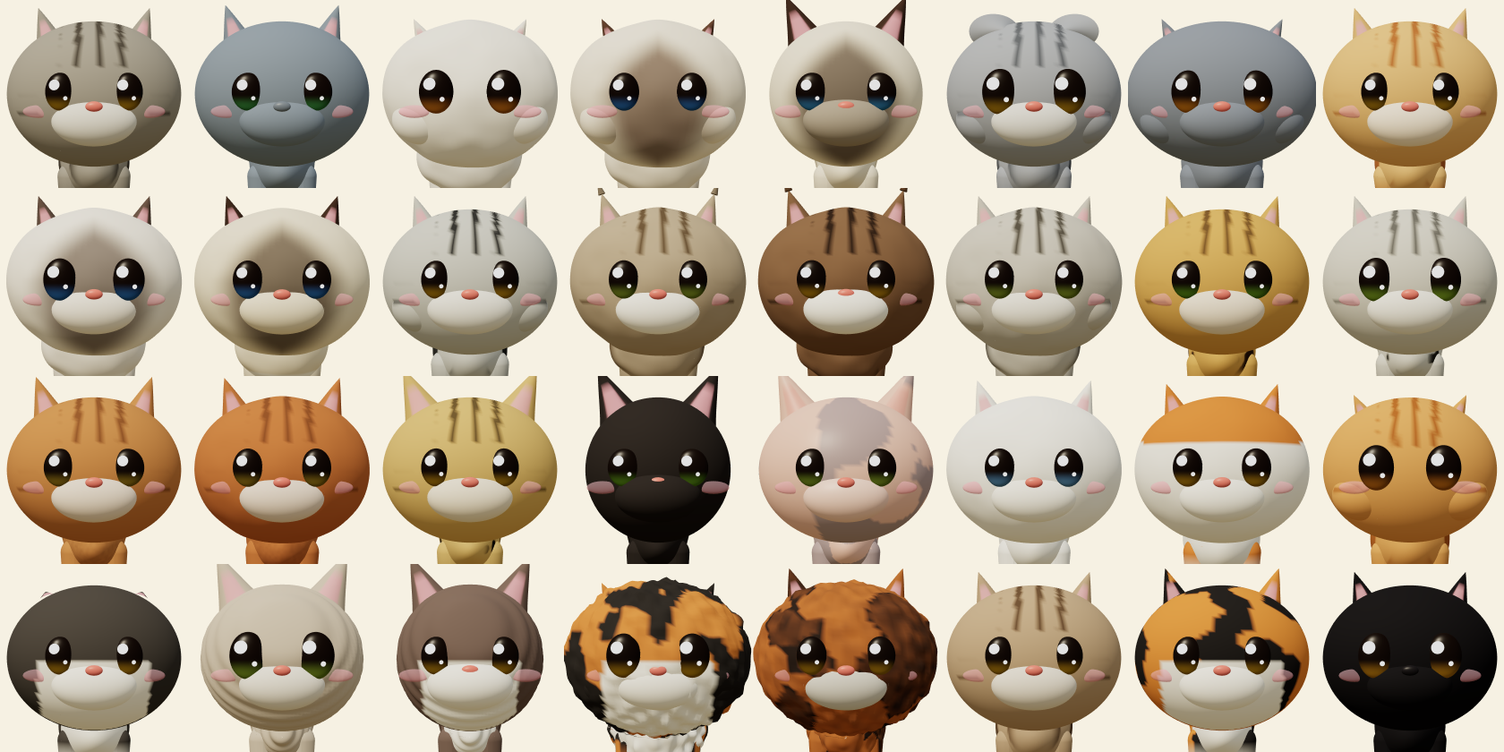
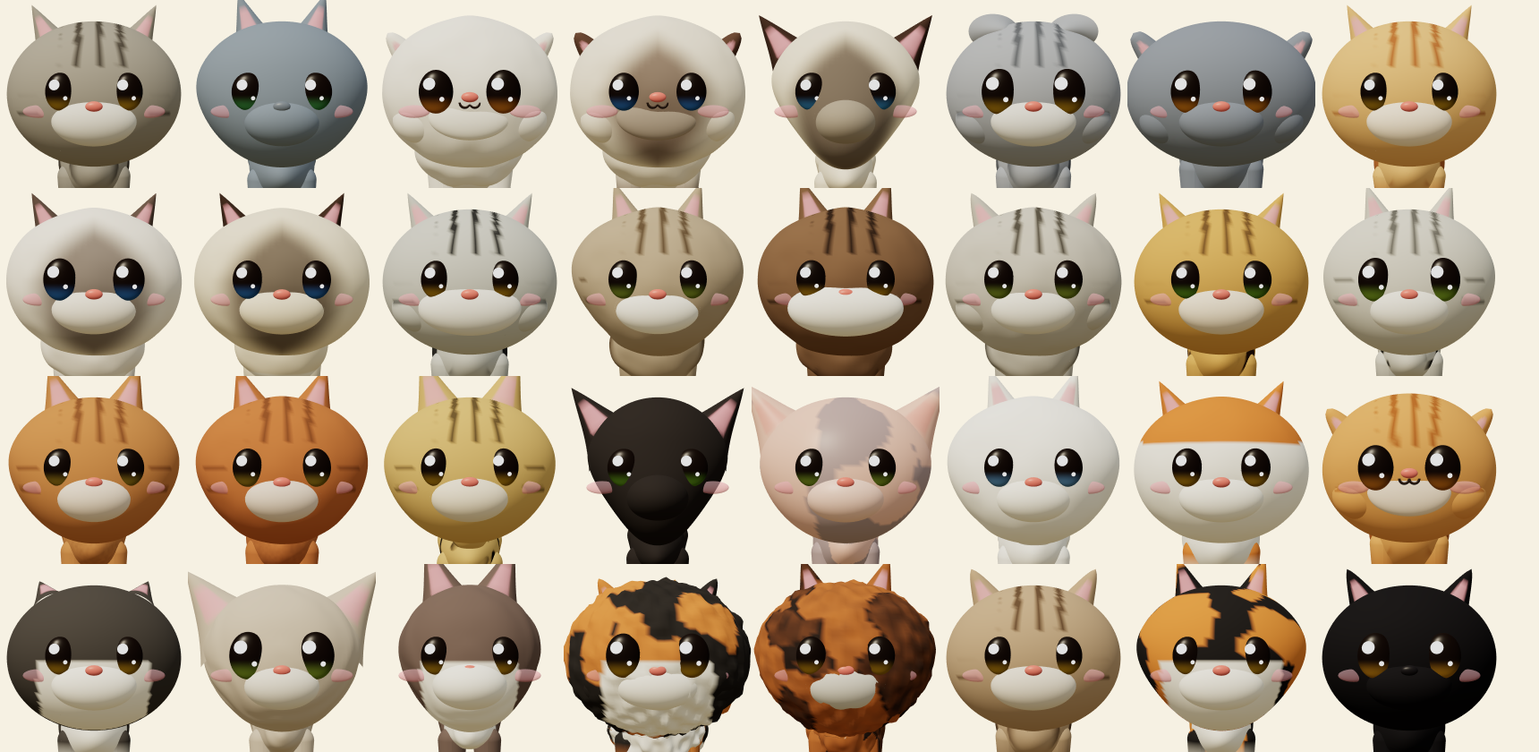
Cat catalog: breed silhouettes (head shape, ear set, body lines, neck, tail)
Add silhouette parameters (wedge, headTri, muzzleW, earSet/earWide/earRound,
chest, backArch, tuck, potBelly, pouch, rumpHigh, neckLen, tailThick) and map
them onto the 32 breed presets so breeds read by shape alone. Add a black
silhouette test page, soften rex coat waves, keep flat-face cheeks/muzzle
flush, frame tall breeds in the catalog, and re-render the doc images.

Claude-Session: https://claude.ai/code/session_015vjHDFNeuhZBMk9pB9WgeS

diff --git a/cat-island/prototype/3d/catgen.js b/cat-island/prototype/3d/catgen.js
@@ -142,7 +142,7 @@ function furify(geo, fur, k = 0) {
     let off = 0;
     if (fur.type === 'long') off = fur.amount * .06 * (fbm(v.x * 3.5 + k, v.y * 3.5, v.z * 3.5) - .3);
     else if (fur.type === 'curly') off = fur.amount * (.035 + .05 * Math.pow(vnoise(v.x * 16 + k, v.y * 16, v.z * 16), 2) + .02 * Math.sin(v.x * 40) * Math.sin(v.z * 40));
-    else if (fur.type === 'rex') off = fur.amount * .012 * Math.sin(v.z * 46 + v.y * 20);
+    else if (fur.type === 'rex') off = fur.amount * .008 * Math.sin(v.z * 30 + v.y * 14 + 6 * vnoise(v.x * 5 + k, v.y * 5, v.z * 5)) * (.4 + .6 * vnoise(v.x * 9, v.y * 9 + k, v.z * 9));   // soft broken waves, not rings
     v.addScaledVector(n, off);
     pos.setXYZ(i, v.x, v.y, v.z);
   }
@@ -177,8 +177,22 @@ export const SHAPE_DEFAULT = {
   eyeSize: 1, eyeShape: 'round',
   bodyLen: 1, bodyBulk: 1, legLen: 1, legBulk: 1,
   fur: 'short', furAmount: 1, ruff: 0,
-  tail: 'normal', tailLen: 1, tailFluff: 0,
+  tail: 'normal', tailLen: 1, tailFluff: 0, tailThick: 1,
   wrinkles: 0,
+  // silhouette shaping
+  wedge: 0,          // 0 round ... 1 Siamese/Oriental wedge (narrow chin, long muzzle)
+  headTri: 0,        // triangular head with straight profile (Norwegian, Japanese Bobtail)
+  muzzleW: 1,        // square, broad muzzle (Maine Coon, American Shorthair)
+  earSet: 'mid',     // 'high' (on top) | 'mid' | 'low' (wide, on the sides: Devon, Siamese, Persian)
+  earWide: 1,        // base width of the ear
+  earRound: 0,       // 0 pointed ... 1 rounded tips (British, Persian)
+  chest: 1,          // chest depth
+  backArch: 0,       // arched back (Cornish Rex)
+  tuck: 0,           // tucked-up belly (Cornish Rex, Oriental)
+  potBelly: 0,       // round belly (Sphynx)
+  pouch: 0,          // primordial pouch under the rear belly (Egyptian Mau, Bengal)
+  rumpHigh: 0,       // hind legs longer than front: rump sits higher (Manx, Egyptian Mau)
+  neckLen: 1,        // neck length (Savannah, Siamese long / Persian short)
 };
 
 // ------------------------------------------------------------------ build
@@ -194,11 +208,14 @@ export function buildCat(shapeIn, coatSpec) {
   const rig = { root, legs: {}, tail: [] };
 
   // leg geometry sizes
-  const fUp = .3 * L, fLo = .3 * L, hTh = .3 * L, hSh = .26 * L, hHo = .2 * L, pawR = .09 * s.legBulk;
+  const RH = 1 + s.rumpHigh;
+  const fUp = .3 * L, fLo = .3 * L, hTh = .3 * L * RH, hSh = .26 * L * RH, hHo = .2 * L * RH, pawR = .09 * s.legBulk;
   const shoulderY = fUp + fLo + pawR * .9;
-  const bodyY = shoulderY + .06;
+  const hindExtra = (hTh + hSh + hHo) * (1 - 1 / RH) * .8;
+  const bodyY = shoulderY + .06 + hindExtra / 2;
 
   const body = new THREE.Group(); body.position.y = bodyY; root.add(body); rig.body = body;
+  rig.pitch = Math.atan2(hindExtra, .96 * BL);           // rump-high breeds lean forward
   const fluffy = s.fur === 'long' ? 1.08 : s.fur === 'curly' ? 1.05 : 1;
   const bodyNorm = p => ({ nx: p.x / (.32 * B), ny: (p.y - bodyY) / (.34 * B), nz: p.z / (.9 * BL) });
 
@@ -207,11 +224,17 @@ export function buildCat(shapeIn, coatSpec) {
     const g = new THREE.SphereGeometry(1, 120, 80);
     g.rotateX(Math.PI / 2);                         // poles on the z axis (tail <-> chest)
     const pos = g.attributes.position;
-    const prof = t => .305 + .055 * Math.exp(-(((t - .45) / .32) ** 2)) + .035 * Math.exp(-(((t + .5) / .3) ** 2));
+    const prof = t => .305 + .055 * s.chest * Math.exp(-(((t - .45) / .32) ** 2)) + .035 * Math.exp(-(((t + .5) / .3) ** 2));
     for (let i = 0; i < pos.count; i++) {
       const x = pos.getX(i), y = pos.getY(i), z = pos.getZ(i);
-      const r = prof(z) * B * fluffy;
-      pos.setXYZ(i, x * r * .93, y * r + .03 - .025 * Math.max(0, z), z * .9 * BL);
+      const r = prof(z) * B * fluffy, mid = 1 - z * z, under = Math.max(0, -y), over = Math.max(0, y);
+      let yy = y * r + .03 - .025 * Math.max(0, z);
+      yy += s.backArch * .1 * mid * over;                                       // arched spine
+      yy += s.tuck * .13 * mid * under;                                          // tucked-up waist
+      yy -= s.potBelly * .1 * mid * under;                                       // round belly
+      yy -= s.pouch * .08 * Math.exp(-(((z + .42) / .24) ** 2)) * under;         // primordial pouch
+      const xx = x * r * .93 * (1 + s.potBelly * .14 * mid * under);
+      pos.setXYZ(i, xx, yy, z * .9 * BL);
     }
     g.computeVertexNormals();
     if (!hairless) furify(g, fur, 1);
@@ -262,7 +285,7 @@ export function buildCat(shapeIn, coatSpec) {
     for (let i = 0; i < tailN; i++) {
       const j = new THREE.Group(); parent.add(j);
       const rad = k => (plume > 1 ? .068 * plume * (1 - .22 * k) * (k > .85 ? Math.sqrt(Math.max(.15, 1 - ((k - .85) / .2) ** 2)) : 1) : .068 - .026 * k) * (s.fur === 'curly' ? 1.2 : 1);
-      const r0 = rad(i / tailN), r1 = rad((i + 1) / tailN);
+      const r0 = rad(i / tailN) * s.tailThick, r1 = rad((i + 1) / tailN) * s.tailThick;
       const g = capsuleY(r0, r1, segLen, 24);
       g.rotateX(Math.PI);                    // grow backwards/upwards along +y of the joint
       if (s.fur === 'curly') furify(g, { type: 'curly', amount: 1 }, 0);
@@ -279,18 +302,35 @@ export function buildCat(shapeIn, coatSpec) {
   // neck + head
   const neck = new THREE.Group(); neck.position.set(0, .2, .62 * BL); body.add(neck); rig.neck = neck;
   {
-    const g = ellipsoid(1, .25 * B * fluffy, .27 * B * fluffy, .28, 64); g.translate(0, .1, .06);
+    const g = ellipsoid(1, .25 * B * fluffy * (1 - (s.neckLen - 1) * .3), .27 * B * fluffy * s.neckLen, .28, 64); g.translate(0, .1 * s.neckLen, .06);
     if (!hairless) furify(g, fur, 5);
     neck.add(mk(g, 'body', 'bodyNorm', bodyMat));
   }
-  const head = new THREE.Group(); head.position.set(0, .26 * s.headSize, .16 * s.headSize); neck.add(head); rig.head = head;
+  const head = new THREE.Group(); head.position.set(0, .26 * s.headSize + (s.neckLen - 1) * .3, .16 * s.headSize + (s.neckLen - 1) * .12); neck.add(head); rig.head = head;
   const HS = .42 * s.headSize;
   {
     const g = ellipsoid(HS, s.headW, .9, .92 - s.faceFlat * .1, 96);
+    {
+      const pos = g.attributes.position;
+      for (let i = 0; i < pos.count; i++) {
+        let x = pos.getX(i), y = pos.getY(i), z = pos.getZ(i);
+        const ny = y / (HS * .9), nz = z / (HS * .92);
+        const low = sstep(.35, -.9, ny), front = sstep(-.2, .9, nz);
+        // wedge: narrow towards the chin, longer muzzle (Siamese / Oriental)
+        x *= 1 - s.wedge * .36 * low - s.headTri * .22 * low;
+        z += HS * front * low * (s.wedge * .22 + s.headTri * .08);
+        y -= HS * front * low * s.wedge * .08;
+        // flat face: lower front pushed in, domed forehead (Persian / Exotic)
+        z -= HS * s.faceFlat * .07 * sstep(.4, 1, nz) * sstep(.5, -.5, ny);
+        y += HS * s.faceFlat * .05 * sstep(.2, 1, ny);
+        pos.setXYZ(i, x, y, z);
+      }
+      g.computeVertexNormals();
+    }
     if (!hairless) furify(g, { ...fur, amount: fur.amount * .7 }, 11);
     head.add(mk(g, 'head', 'headDir', bodyMat));
     if (s.cheek) for (const x of [-1, 1]) {
-      const c = ellipsoid(HS * .38, 1, .8, .85, 48); c.translate(x * HS * .5 * s.headW, -HS * .3, HS * .36);
+      const c = ellipsoid(HS * .38, 1, .8, .85, 48); c.translate(x * HS * .5 * s.headW, -HS * .3, HS * (.36 - .06 * s.faceFlat));   // cheeks follow the flattened face
       head.add(mk(c, 'head', 'headDir', bodyMat));
     }
   }
@@ -298,22 +338,25 @@ export function buildCat(shapeIn, coatSpec) {
   for (const x of [-1, 1]) {
     const es = Math.pow(s.earSize, .65) * HS / .42 * .82 * (s.ear === 'large' ? 1.15 : 1);
     // one cone per ear (base sunk into the skull); the pink inner ear is painted on its front face
-    const eh = .36 * es, er0 = .16 * es;
+    const eh = .36 * es, er0 = .16 * es * s.earWide;
     // lathe cone (ConeGeometry with heightSegments > 1 flips half of its triangles in three r169)
     const prof = [];
-    for (let k = 0; k <= 14; k++) { const t = k / 14; prof.push(new THREE.Vector2(Math.max(1e-4, er0 * (1 - t) * (1 - .12 * Math.sin(Math.PI * t))), -eh / 2 + eh * t)); }
+    for (let k = 0; k <= 14; k++) { const t = k / 14; prof.push(new THREE.Vector2(Math.max(1e-4, er0 * Math.pow(1 - t, 1 - .6 * s.earRound) * (1 - .12 * Math.sin(Math.PI * t))), -eh / 2 + eh * t)); }
     const eg = new THREE.LatheGeometry(prof, 40); eg.translate(0, .08 * es, 0);
     const ear = new THREE.Group();
     const earMesh = mk(eg, 'ear', { ear: true, h: eh, r: er0, y0: .08 * es - eh / 2 }, bodyMat);
     earMesh.receiveShadow = false;   // thin cones self-shadow into moire bands
     ear.add(earMesh);
-    const ex = x * HS * .5 * s.headW, ey = HS * .6;
+    // ear set: angle from the top of the skull
+    const th = { high: .4, mid: .6, low: .95 }[s.earSet] ?? .6;
+    const ex = x * Math.sin(th) * HS * s.headW * .9, ey = Math.cos(th) * HS * .9 * .9;
     ear.position.set(ex, ey, -HS * .05);
+    const tilt = -x * Math.min(th * .8, .62);   // even low-set ears stay well above horizontal
     if (s.ear === 'fold') { ear.scale.set(1.08, .5, .72); ear.rotation.set(1.62, 0, x * .45); ear.position.set(x * HS * .44, HS * .76, HS * .16); }
-    else if (s.ear === 'curl') { ear.rotation.set(-1.0, 0, -x * .2); }
-    else if (s.ear === 'large') { ear.rotation.set(0, 0, -x * .42); }
-    else if (s.ear === 'small') { ear.scale.setScalar(.75); ear.rotation.set(.15, 0, -x * .45); }
-    else ear.rotation.set(.05, 0, -x * .32);
+    else if (s.ear === 'curl') { ear.rotation.set(-.8, 0, tilt * .7); ear.position.z -= HS * .06; }
+    else if (s.ear === 'large') { ear.rotation.set(0, 0, tilt * 1.05); }
+    else if (s.ear === 'small') { ear.scale.setScalar(.75); ear.rotation.set(.15, 0, tilt * 1.1); }
+    else ear.rotation.set(.05, 0, tilt);
     if (s.earTuft) {
       const t = new THREE.ConeGeometry(.022 * es, .09 * es, 8); t.translate(0, .3 * es, 0);
       ear.add(mk(t, 'tuft', null));
@@ -323,15 +366,15 @@ export function buildCat(shapeIn, coatSpec) {
   // muzzle, nose, eyes, blush, whisker pads
   {
     const flat = s.faceFlat;
-    const mz = ellipsoid(HS * .4, 1.2, .72, .7 * s.muzzleLen * (1 - flat * .5), 48);
-    mz.translate(0, -HS * .3 + flat * HS * .06, HS * (.72 - flat * .14));
+    const mz = ellipsoid(HS * .4, 1.2 * s.muzzleW * (1 - s.wedge * .25), .72 * (.75 + .25 * s.muzzleW), .7 * s.muzzleLen * (1 - flat * .5) * (1 + s.wedge * .25), 48);
+    mz.translate(0, -HS * .3 + flat * HS * .06, HS * (.72 - flat * .08));
     head.add(mk(mz, 'muzzle', 'headDir', bodyMat));
-    const ng = ellipsoid(HS * .072, 1.3, .78, .6, 20); ng.translate(0, -HS * .14 + flat * HS * .1, HS * (.97 - flat * .2) * Math.min(1, s.muzzleLen * .1 + .9));
+    const ng = ellipsoid(HS * .072, 1.3, .78, .6, 20); ng.translate(0, -HS * .14 + flat * HS * .1, HS * (.97 - flat * .14) * Math.min(1, s.muzzleLen * .1 + .9));
     head.add(mk(ng, 'nose', null, MAT_GLOSS));
     // mouth: a tiny 'w' under the nose
     for (const x of [-1, 1]) {
       const m = new THREE.TorusGeometry(HS * .055, HS * .014, 8, 20, Math.PI);
-      m.rotateZ(Math.PI); m.translate(x * HS * .055, -HS * .2 + flat * HS * .1, HS * (.93 - flat * .2));
+      m.rotateZ(Math.PI); m.translate(x * HS * .055, -HS * .2 + flat * HS * .1, HS * (.93 - flat * .14));
       head.add(mk(m, 'mouth', null, MAT_GLOSS));
     }
     for (const x of [-1, 1]) {
@@ -430,10 +473,11 @@ export function setPose(cat, mode = 'walk', phase = 0) {
   }
   body.position.y = body.position.y; // keep
   const bob = mode === 'walk' ? Math.sin(phase * TAU * 2) * .015 : 0;
-  body.rotation.x = 0;
+  body.rotation.x = cat.userData.rig.pitch || 0;
+  neck.userData.pitchComp = -(cat.userData.rig.pitch || 0);
   body.children[0] && (cat.userData.baseY ??= body.position.y);
   body.position.y = cat.userData.baseY + bob;
-  neck.rotation.x = -.15 + (mode === 'walk' ? Math.sin(phase * TAU * 2 + 1) * .04 : 0);
+  neck.rotation.x = -.15 + (neck.userData.pitchComp || 0) + (mode === 'walk' ? Math.sin(phase * TAU * 2 + 1) * .04 : 0);
   head.rotation.x = .12;
   head.rotation.y = mode === 'look' ? -.5 : 0;
   // tail: up-and-curved, swaying while walking
@@ -449,38 +493,38 @@ export function setPose(cat, mode = 'walk', phase = 0) {
 // ------------------------------------------------------------------ catalogue
 const SH = (o) => o;
 export const BREEDS = [
-  { id: 'korean_shorthair', ko: '코리안 숏헤어', shape: {}, coat: { pattern: 'mackerel', base: '#a39d93', dark: '#57514a' } },
-  { id: 'russian_blue', ko: '러시안 블루', shape: { eyeShape: 'almond', earSize: 1.12, bodyBulk: .92, legLen: 1.08 }, coat: { pattern: 'solid', base: '#8794a3', eye: '#5fae6a', lightMuzzle: false, nose: '#7d8794' } },
-  { id: 'persian', ko: '페르시안', shape: { faceFlat: 1, ear: 'small', fur: 'long', ruff: 1, tailFluff: 1, cheek: 1, eyeSize: 1.15, legLen: .82, bodyBulk: 1.1 }, coat: { pattern: 'solid', base: '#f4efe6', eye: '#d7902f' } },
-  { id: 'himalayan', ko: '히말라얀', shape: { faceFlat: 1, ear: 'small', fur: 'long', ruff: 1, tailFluff: 1, cheek: 1, legLen: .82, bodyBulk: 1.1 }, coat: { pattern: 'point', base: '#f2e8d8', point: '#6b4f40', eye: '#4f8fd8' } },
-  { id: 'siamese', ko: '샴', shape: { ear: 'large', earSize: 1.3, eyeShape: 'almond', bodyBulk: .82, legLen: 1.15, headW: .95, muzzleLen: 1.2, tailLen: 1.2 }, coat: { pattern: 'point', base: '#f1e6d2', point: '#4f3a30', eye: '#5aa6e0' } },
-  { id: 'scottish_fold', ko: '스코티시 폴드', shape: { ear: 'fold', eyeSize: 1.2, cheek: .6, bodyBulk: 1.05 }, coat: { pattern: 'mackerel', base: '#a9adb6', dark: '#686c74' } },
-  { id: 'british_shorthair', ko: '브리티시 숏헤어', shape: { cheek: 1, ear: 'small', bodyBulk: 1.15, headW: 1.18, eyeSize: 1.12, legBulk: 1.15 }, coat: { pattern: 'solid', base: '#8a92a0', eye: '#e19a2b', lightMuzzle: false } },
+  { id: 'korean_shorthair', ko: '코리안 숏헤어', shape: { earSet: 'mid' }, coat: { pattern: 'mackerel', base: '#a39d93', dark: '#57514a' } },
+  { id: 'russian_blue', ko: '러시안 블루', shape: { eyeShape: 'almond', earSize: 1.12, bodyBulk: .92, legLen: 1.08, wedge: .35, earSet: 'high', neckLen: 1.1, tailThick: .85 }, coat: { pattern: 'solid', base: '#8794a3', eye: '#5fae6a', lightMuzzle: false, nose: '#7d8794' } },
+  { id: 'persian', ko: '페르시안', shape: { faceFlat: 1, ear: 'small', fur: 'long', ruff: 1, tailFluff: 1, cheek: 1, eyeSize: 1.15, legLen: .78, bodyBulk: 1.15, earSet: 'low', earRound: .8, bodyLen: .82, neckLen: .75, tailThick: 1.2, tailLen: .85 }, coat: { pattern: 'solid', base: '#f4efe6', eye: '#d7902f' } },
+  { id: 'himalayan', ko: '히말라얀', shape: { faceFlat: 1, ear: 'small', fur: 'long', ruff: 1, tailFluff: 1, cheek: 1, legLen: .78, bodyBulk: 1.15, earSet: 'low', earRound: .8, bodyLen: .82, neckLen: .75, tailThick: 1.2, tailLen: .85 }, coat: { pattern: 'point', base: '#f2e8d8', point: '#6b4f40', eye: '#4f8fd8' } },
+  { id: 'siamese', ko: '샴', shape: { ear: 'large', earSize: 1.2, eyeShape: 'almond', bodyBulk: .78, legLen: 1.25, headW: .95, muzzleLen: 1.2, tailLen: 1.35, wedge: 1, earSet: 'low', earWide: 1.05, bodyLen: 1.2, tailThick: .65, neckLen: 1.2, tuck: .4 }, coat: { pattern: 'point', base: '#f1e6d2', point: '#4f3a30', eye: '#5aa6e0' } },
+  { id: 'scottish_fold', ko: '스코티시 폴드', shape: { ear: 'fold', eyeSize: 1.2, cheek: .6, bodyBulk: 1.05, earRound: .5, bodyLen: .92, tailThick: 1.1 }, coat: { pattern: 'mackerel', base: '#a9adb6', dark: '#686c74' } },
+  { id: 'british_shorthair', ko: '브리티시 숏헤어', shape: { cheek: 1, ear: 'small', bodyBulk: 1.15, headW: 1.18, eyeSize: 1.12, legBulk: 1.15, earRound: 1, earSet: 'low', bodyLen: .85, legLen: .9, neckLen: .8, tailThick: 1.3, tailLen: .9, chest: 1.15 }, coat: { pattern: 'solid', base: '#8a92a0', eye: '#e19a2b', lightMuzzle: false } },
   { id: 'munchkin', ko: '먼치킨', shape: { legLen: .5 }, coat: { pattern: 'classic', base: '#e8b878', dark: '#b4703a' } },
-  { id: 'ragdoll', ko: '랙돌', shape: { fur: 'long', furAmount: .8, ruff: .8, tailFluff: 1, eyeSize: 1.1, bodyBulk: 1.1, size: 1.1 }, coat: { pattern: 'mitted', base: '#f3ece2', point: '#6b5a52', eye: '#4f8fd8' } },
-  { id: 'birman', ko: '버먼', shape: { fur: 'long', furAmount: .7, ruff: .6, tailFluff: .8 }, coat: { pattern: 'mitted', base: '#efe3cc', point: '#4e3a2f', eye: '#4f8fd8' } },
-  { id: 'american_shorthair', ko: '아메리칸 숏헤어', shape: { cheek: .5, bodyBulk: 1.05, legBulk: 1.1 }, coat: { pattern: 'classic', base: '#c9c9c4', dark: '#3d3d3d' } },
-  { id: 'norwegian_forest', ko: '노르웨이 숲', shape: { fur: 'long', ruff: 1, tailFluff: 1.2, earTuft: 1, earSize: 1.1, size: 1.12 }, coat: { pattern: 'mackerel', base: '#b8a68e', dark: '#6e5b45', eye: '#9db24a', whiteLevel: .25 } },
-  { id: 'maine_coon', ko: '메인쿤', shape: { fur: 'long', ruff: 1.2, tailFluff: 1.2, earTuft: 1, earSize: 1.25, bodyLen: 1.15, size: 1.22, muzzleLen: 1.2 }, coat: { pattern: 'classic', base: '#8a6a4f', dark: '#3e2d22', whiteLevel: .2 } },
-  { id: 'siberian', ko: '시베리안', shape: { fur: 'long', ruff: 1, tailFluff: 1, cheek: .5, size: 1.1 }, coat: { pattern: 'mackerel', base: '#c9c4bb', dark: '#5d5850', eye: '#9db24a' } },
-  { id: 'bengal', ko: '벵갈', shape: { bodyBulk: .95, eyeShape: 'almond', legLen: 1.08 }, coat: { pattern: 'spotted', base: '#d9a95c', dark: '#4a3322', eye: '#7cae3d' } },
-  { id: 'egyptian_mau', ko: '이집션 마우', shape: { bodyBulk: .9, legLen: 1.1, eyeSize: 1.15 }, coat: { pattern: 'spotted', base: '#d4d1c8', dark: '#3c3a36', eye: '#9cc04a', seed: 4 } },
-  { id: 'abyssinian', ko: '아비시니안', shape: { earSize: 1.3, eyeShape: 'almond', bodyBulk: .86, legLen: 1.1 }, coat: { pattern: 'ticked', base: '#c98a52', dark: '#7a4a28', eye: '#b8a03a' } },
-  { id: 'somali', ko: '소말리', shape: { earSize: 1.25, fur: 'long', furAmount: .6, tailFluff: 1.2, bodyBulk: .9 }, coat: { pattern: 'ticked', base: '#c47a45', dark: '#7a4a28', eye: '#b8a03a' } },
-  { id: 'savannah', ko: '사바나', shape: { ear: 'large', earSize: 1.45, legLen: 1.35, bodyBulk: .85, bodyLen: 1.1, size: 1.15, tailLen: .9 }, coat: { pattern: 'spotted', base: '#d8b46f', dark: '#2c241c', eye: '#c9a227', seed: 7 } },
-  { id: 'oriental', ko: '오리엔탈', shape: { ear: 'large', earSize: 1.5, bodyBulk: .78, legLen: 1.2, headW: .9, muzzleLen: 1.3, eyeShape: 'almond', tailLen: 1.3 }, coat: { pattern: 'solid', base: '#3a3432', eye: '#7cae3d', lightMuzzle: false } },
-  { id: 'sphynx', ko: '스핑크스', shape: { ear: 'large', earSize: 1.55, fur: 'none', wrinkles: 1, bodyBulk: .9, eyeShape: 'almond', tailLen: 1.1 }, coat: { pattern: 'calico', base: '#efc4b6', second: '#b5a2a4', white: '#f6d6cc', whiteLevel: 0, eye: '#9cb84a', innerEar: '#eba8a0', seed: 3 } },
-  { id: 'turkish_angora', ko: '터키시 앙고라', shape: { fur: 'long', furAmount: .6, tailFluff: 1.2, earSize: 1.15, bodyBulk: .88, legLen: 1.08 }, coat: { pattern: 'solid', base: '#fbf8f2', eye: '#7fb6ea' } },
-  { id: 'turkish_van', ko: '터키시 반', shape: { fur: 'long', furAmount: .4, tailFluff: .8, size: 1.08 }, coat: { pattern: 'van', base: '#d9853c' } },
-  { id: 'exotic_shorthair', ko: '엑조틱 숏헤어', shape: { faceFlat: 1, ear: 'small', cheek: 1, eyeSize: 1.2, bodyBulk: 1.12, legLen: .85 }, coat: { pattern: 'classic', base: '#e2a35e', dark: '#b06a2d', eye: '#d7902f' } },
+  { id: 'ragdoll', ko: '랙돌', shape: { fur: 'long', furAmount: .8, ruff: .8, tailFluff: 1, eyeSize: 1.1, bodyBulk: 1.1, size: 1.1, bodyLen: 1.12, tailThick: 1.1 }, coat: { pattern: 'mitted', base: '#f3ece2', point: '#6b5a52', eye: '#4f8fd8' } },
+  { id: 'birman', ko: '버먼', shape: { fur: 'long', furAmount: .7, ruff: .6, tailFluff: .8, bodyLen: 1.05 }, coat: { pattern: 'mitted', base: '#efe3cc', point: '#4e3a2f', eye: '#4f8fd8' } },
+  { id: 'american_shorthair', ko: '아메리칸 숏헤어', shape: { cheek: .5, bodyBulk: 1.05, legBulk: 1.1, muzzleW: 1.2, chest: 1.1, tailThick: 1.1 }, coat: { pattern: 'classic', base: '#c9c9c4', dark: '#3d3d3d' } },
+  { id: 'norwegian_forest', ko: '노르웨이 숲', shape: { fur: 'long', ruff: 1, tailFluff: 1.2, earTuft: 1, earSize: 1.1, size: 1.12, headTri: 1, earSet: 'high', rumpHigh: .12 }, coat: { pattern: 'mackerel', base: '#b8a68e', dark: '#6e5b45', eye: '#9db24a', whiteLevel: .25 } },
+  { id: 'maine_coon', ko: '메인쿤', shape: { fur: 'long', ruff: 1.2, tailFluff: 1.2, earTuft: 1, earSize: 1.25, bodyLen: 1.2, size: 1.22, muzzleLen: 1.2, muzzleW: 1.35, earSet: 'high', chest: 1.1 }, coat: { pattern: 'classic', base: '#8a6a4f', dark: '#3e2d22', whiteLevel: .2 } },
+  { id: 'siberian', ko: '시베리안', shape: { fur: 'long', ruff: 1, tailFluff: 1, cheek: .5, size: 1.1, earRound: .3, chest: 1.1 }, coat: { pattern: 'mackerel', base: '#c9c4bb', dark: '#5d5850', eye: '#9db24a' } },
+  { id: 'bengal', ko: '벵갈', shape: { bodyBulk: .95, eyeShape: 'almond', legLen: 1.08, pouch: .5, bodyLen: 1.1, chest: 1.1, tailThick: 1.1 }, coat: { pattern: 'spotted', base: '#d9a95c', dark: '#4a3322', eye: '#7cae3d' } },
+  { id: 'egyptian_mau', ko: '이집션 마우', shape: { bodyBulk: .9, legLen: 1.1, eyeSize: 1.15, pouch: 1, rumpHigh: .2, wedge: .25, earSet: 'high' }, coat: { pattern: 'spotted', base: '#d4d1c8', dark: '#3c3a36', eye: '#9cc04a', seed: 4 } },
+  { id: 'abyssinian', ko: '아비시니안', shape: { earSize: 1.3, eyeShape: 'almond', bodyBulk: .86, legLen: 1.1, wedge: .4, earSet: 'high', earWide: 1.1, tailLen: 1.1, tailThick: .85 }, coat: { pattern: 'ticked', base: '#c98a52', dark: '#7a4a28', eye: '#b8a03a' } },
+  { id: 'somali', ko: '소말리', shape: { earSize: 1.25, fur: 'long', furAmount: .6, tailFluff: 1.2, bodyBulk: .9, wedge: .35, earSet: 'high', earWide: 1.1 }, coat: { pattern: 'ticked', base: '#c47a45', dark: '#7a4a28', eye: '#b8a03a' } },
+  { id: 'savannah', ko: '사바나', shape: { ear: 'large', earSize: 1.45, legLen: 1.35, bodyBulk: .85, bodyLen: 1.1, size: 1.15, tailLen: .9, neckLen: 1.3, earSet: 'high', wedge: .3, tailThick: .9 }, coat: { pattern: 'spotted', base: '#d8b46f', dark: '#2c241c', eye: '#c9a227', seed: 7 } },
+  { id: 'oriental', ko: '오리엔탈', shape: { ear: 'large', earSize: 1.35, bodyBulk: .78, legLen: 1.25, headW: .9, muzzleLen: 1.3, eyeShape: 'almond', tailLen: 1.4, wedge: 1, earSet: 'low', earWide: 1.05, bodyLen: 1.2, tailThick: .6, neckLen: 1.2, tuck: .45 }, coat: { pattern: 'solid', base: '#3a3432', eye: '#7cae3d', lightMuzzle: false } },
+  { id: 'sphynx', ko: '스핑크스', shape: { ear: 'large', earSize: 1.55, fur: 'none', wrinkles: 1, bodyBulk: .9, eyeShape: 'almond', tailLen: 1.1, potBelly: 1, earSet: 'low', earWide: 1.15, wedge: .3, tailThick: .6, chest: 1.1 }, coat: { pattern: 'calico', base: '#efc4b6', second: '#b5a2a4', white: '#f6d6cc', whiteLevel: 0, eye: '#9cb84a', innerEar: '#eba8a0', seed: 3 } },
+  { id: 'turkish_angora', ko: '터키시 앙고라', shape: { fur: 'long', furAmount: .6, tailFluff: 1.2, earSize: 1.15, bodyBulk: .88, legLen: 1.08, wedge: .35, earSet: 'high', neckLen: 1.15, tailThick: .9 }, coat: { pattern: 'solid', base: '#fbf8f2', eye: '#7fb6ea' } },
+  { id: 'turkish_van', ko: '터키시 반', shape: { fur: 'long', furAmount: .4, tailFluff: .8, size: 1.08, bodyLen: 1.1, chest: 1.1 }, coat: { pattern: 'van', base: '#d9853c' } },
+  { id: 'exotic_shorthair', ko: '엑조틱 숏헤어', shape: { faceFlat: 1, ear: 'small', cheek: 1, eyeSize: 1.2, bodyBulk: 1.12, legLen: .85, earSet: 'low', earRound: .8, bodyLen: .82, neckLen: .75, tailThick: 1.2, tailLen: .85 }, coat: { pattern: 'classic', base: '#e2a35e', dark: '#b06a2d', eye: '#d7902f' } },
   { id: 'american_curl', ko: '아메리칸 컬', shape: { ear: 'curl', earSize: 1.15 }, coat: { pattern: 'bicolor', base: '#55504c' } },
-  { id: 'devon_rex', ko: '데본 렉스', shape: { ear: 'large', earSize: 1.6, eyeSize: 1.25, headW: 1.0, bodyBulk: .82, fur: 'rex', legLen: 1.1 }, coat: { pattern: 'solid', base: '#cdbfae', eye: '#9cb84a' } },
-  { id: 'cornish_rex', ko: '코니시 렉스', shape: { ear: 'large', earSize: 1.45, bodyBulk: .78, legLen: 1.25, fur: 'rex', headW: .9, muzzleLen: 1.2, tailLen: 1.25 }, coat: { pattern: 'bicolor', base: '#7d6a62', whiteLevel: .5 } },
-  { id: 'selkirk_rex', ko: '셀커크 렉스', shape: { fur: 'curly', furAmount: 1.1, cheek: .8, bodyBulk: 1.1, ear: 'small', eyeSize: 1.15, tailFluff: .6 }, coat: { pattern: 'calico', base: '#3b3735', second: '#d98a43', whiteLevel: .5, seed: 6 } },
-  { id: 'laperm', ko: '라팜', shape: { fur: 'curly', furAmount: .8, earSize: 1.15, bodyBulk: .9, tailFluff: .5 }, coat: { pattern: 'tortie', base: '#3a2e29', second: '#c4773a', seed: 2 } },
-  { id: 'manx', ko: '맹크스 (꼬리 없음)', shape: { tail: 'none', bodyBulk: 1.08, bodyLen: .9, legLen: 1.0 }, coat: { pattern: 'mackerel', base: '#bfa486', dark: '#6e5640' } },
-  { id: 'japanese_bobtail', ko: '재패니즈 밥테일', shape: { tail: 'bob', earSize: 1.15, bodyBulk: .9, legLen: 1.1 }, coat: { pattern: 'calico', base: '#2f2c2c', second: '#df8d3d', whiteLevel: .6, seed: 9 } },
-  { id: 'bombay', ko: '봄베이', shape: { eyeSize: 1.2, bodyBulk: 1.0 }, coat: { pattern: 'solid', base: '#232125', eye: '#d9a52c', lightMuzzle: false, nose: '#2d2a2e' } },
+  { id: 'devon_rex', ko: '데본 렉스', shape: { ear: 'large', earSize: 1.6, eyeSize: 1.25, headW: 1.0, bodyBulk: .82, fur: 'rex', legLen: 1.1, earSet: 'low', earWide: 1.2, wedge: .4, tailThick: .7 }, coat: { pattern: 'solid', base: '#cdbfae', eye: '#9cb84a' } },
+  { id: 'cornish_rex', ko: '코니시 렉스', shape: { ear: 'large', earSize: 1.45, bodyBulk: .78, legLen: 1.25, fur: 'rex', headW: .9, muzzleLen: 1.2, tailLen: 1.25, backArch: 1, tuck: 1, wedge: .5, tailThick: .55, earSet: 'high', chest: 1.15 }, coat: { pattern: 'bicolor', base: '#7d6a62', whiteLevel: .5 } },
+  { id: 'selkirk_rex', ko: '셀커크 렉스', shape: { fur: 'curly', furAmount: 1.1, cheek: .8, bodyBulk: 1.1, ear: 'small', eyeSize: 1.15, tailFluff: .6, earRound: .5, bodyLen: .9, tailThick: 1.2 }, coat: { pattern: 'calico', base: '#3b3735', second: '#d98a43', whiteLevel: .5, seed: 6 } },
+  { id: 'laperm', ko: '라팜', shape: { fur: 'curly', furAmount: .8, earSize: 1.15, bodyBulk: .9, tailFluff: .5, wedge: .3, earSet: 'high' }, coat: { pattern: 'tortie', base: '#3a2e29', second: '#c4773a', seed: 2 } },
+  { id: 'manx', ko: '맹크스 (꼬리 없음)', shape: { tail: 'none', bodyBulk: 1.08, bodyLen: .85, legLen: 1.0, rumpHigh: .3, earRound: .4 }, coat: { pattern: 'mackerel', base: '#bfa486', dark: '#6e5640' } },
+  { id: 'japanese_bobtail', ko: '재패니즈 밥테일', shape: { tail: 'bob', earSize: 1.15, bodyBulk: .9, legLen: 1.15, headTri: 1, earSet: 'high', rumpHigh: .1 }, coat: { pattern: 'calico', base: '#2f2c2c', second: '#df8d3d', whiteLevel: .6, seed: 9 } },
+  { id: 'bombay', ko: '봄베이', shape: { eyeSize: 1.2, bodyBulk: 1.0, bodyLen: .95, earRound: .3, chest: 1.1 }, coat: { pattern: 'solid', base: '#232125', eye: '#d9a52c', lightMuzzle: false, nose: '#2d2a2e' } },
 ];
 
 export const KOREAN_COATS = [

diff --git a/cat-island/prototype/3d/silhouette.html b/cat-island/prototype/3d/silhouette.html
@@ -1,0 +1,36 @@
+<!doctype html>
+<html lang="ko"><head><meta charset="utf-8">
+<link rel="stylesheet" href="https://fonts.googleapis.com/css2?family=Jua&display=swap">
+<style>body{margin:0;background:#fff;font-family:Jua,sans-serif;color:#555}
+.g{position:relative}.l{position:absolute;font-size:13px;width:200px;text-align:center}</style></head>
+<body><div class="g" id="g"></div>
+<script type="importmap">{ "imports": { "three": "./node_modules/three/build/three.module.js" } }</script>
+<script type="module">
+import * as THREE from 'three';
+import { buildCat, setPose, BREEDS } from './catgen.js';
+// Silhouette test: pure black shapes, side (stand) + front, so breeds must read by shape alone.
+const q = new URLSearchParams(location.search);
+const ids = (q.get('ids') || BREEDS.map(b => b.id).join(',')).split(',');
+const COLS = 8, CW = 200, CH = 150, ROWH = CH * 2 + 24, rows = Math.ceil(ids.length / COLS);
+const W = COLS * CW, H = rows * ROWH;
+const r = new THREE.WebGLRenderer({ antialias: true, preserveDrawingBuffer: true });
+r.setPixelRatio(2); r.setSize(W, H); r.setScissorTest(true); r.setClearColor('#ffffff');
+g.appendChild(r.domElement);
+const black = new THREE.MeshBasicMaterial({ color: '#1a1a1a' });
+ids.forEach((id, i) => {
+  const b = BREEDS.find(x => x.id === id);
+  const col = i % COLS, row = Math.floor(i / COLS);
+  for (const [k, view] of [[0, 'side'], [1, 'front']]) {
+    const scene = new THREE.Scene(); scene.background = new THREE.Color('#ffffff');
+    const cat = buildCat(b.shape, b.coat); setPose(cat, 'stand', 0); scene.add(cat);
+    cat.traverse(o => { if (o.isMesh) o.material = black; });
+    const cam = new THREE.OrthographicCamera(-2.0, 2.0, 1.5, -1.5, .1, 50);
+    if (view === 'side') cam.position.set(8, 1.15, 0); else cam.position.set(0, 1.15, 8);
+    cam.lookAt(0, 1.15, 0);
+    const y = H - row * ROWH - (k + 1) * CH;
+    r.setViewport(col * CW, y, CW, CH); r.setScissor(col * CW, y, CW, CH); r.render(scene, cam);
+  }
+  g.insertAdjacentHTML('beforeend', `<div class="l" style="left:${col * CW}px;top:${row * ROWH + CH * 2 + 2}px">${b.ko}</div>`);
+});
+window.__done = true;
+</script></body></html>

diff --git a/cat-island/prototype/3d/catalog.html b/cat-island/prototype/3d/catalog.html
@@ -23,6 +23,7 @@
 <script type="module">
 import * as THREE from 'three';
 import { buildCat, setPose, BREEDS, KOREAN_COATS } from './catgen.js';
+const BASE_TOP = (() => { const c = buildCat({}, {}); setPose(c, 'walk', .12); return new THREE.Box3().setFromObject(c).max.y * 1.06; })();
 
 const q = new URLSearchParams(location.search);
 const mode = q.get('mode') || 'breeds';
@@ -58,7 +59,9 @@ items.forEach((it, i) => {
   ground.rotation.x = -Math.PI / 2; ground.receiveShadow = true; scene.add(ground);
   const cat = buildCat(it.shape, it.coat); setPose(cat, 'walk', .12); cat.rotation.y = .42; scene.add(cat);
   const cam = new THREE.PerspectiveCamera(24, CW / (CH - 40), .1, 50);
-  cam.position.set(7.0, 2.7, 2.2); cam.lookAt(0, .86, .05);
+  // tall breeds (Savannah, Maine Coon) pull the camera back so the ears stay in frame
+  const top = new THREE.Box3().setFromObject(cat).max.y, k = Math.max(1, top / BASE_TOP);
+  cam.position.set(7.0 * k, 2.7 * k, 2.2 * k); cam.lookAt(0, .86 * k, .05);
   const col = i % COLS, row = Math.floor(i / COLS);
   const x = 12 + col * CW, y = H - (row + 1) * CH;
   renderer.setViewport(x, y + 40, CW, CH - 40); renderer.setScissor(x, y + 40, CW, CH - 40);

diff --git a/cat-island/prototype/3d/inspect.html b/cat-island/prototype/3d/inspect.html
@@ -22,7 +22,7 @@ ids.forEach((id, row) => {
     const sun = new THREE.DirectionalLight('#fff4dc', 2); sun.position.set(-3, 6, 5); sun.castShadow = true; sun.shadow.bias = -0.0004; sun.shadow.normalBias = 0.03; sun.shadow.radius = 4; scene.add(sun);
     const g = new THREE.Mesh(new THREE.CircleGeometry(2, 48), new THREE.MeshStandardMaterial({ color: '#a8db84' })); g.rotation.x = -Math.PI / 2; g.receiveShadow = true; scene.add(g);
     const cat = buildCat(b.shape, b.coat); setPose(cat, pose, .1); scene.add(cat);
-    const k = b.shape.size || 1; const cam = new THREE.PerspectiveCamera(26, CW / CH, .1, 50); cam.position.set(p[0] * k, p[1] * k, p[2] * k); cam.lookAt(0, .75 * k, 0);
+    const k = b.shape.size || 1; const cam = new THREE.PerspectiveCamera(26, CW / CH, .1, 50); cam.position.set(p[0] * k * 1.1, p[1] * k * 1.1, p[2] * k * 1.1); cam.lookAt(0, .85 * k, 0);
     r.setViewport(col * CW, H - (row + 1) * CH, CW, CH); r.setScissor(col * CW, H - (row + 1) * CH, CW, CH); r.render(scene, cam);
   });
 });

diff --git a/cat-island/docs/CAT_CATALOG.md b/cat-island/docs/CAT_CATALOG.md
@@ -16,6 +16,7 @@
 ![걷기 동작](images/walk_cycle.png)
 ![얼굴 클로즈업](images/hero_cats.png)
 ![정면 얼굴 32종](images/faces_front.png)
+![실루엣 점검 (측면·정면)](images/silhouettes.png)
 
 **얼굴 원칙 (동물의 숲 스타일):**
 - 눈은 크고 동그란 까만 유광 눈에 큰 하이라이트와 작은 하이라이트를 넣는다.
@@ -87,6 +88,32 @@ root
 | `tail` / `tailLen` / `tailFluff` | 꼬리 | `normal` / `bob` 방울 꼬리(재패니즈 밥테일) / `none` 꼬리 없음(맹크스) |
 | `wrinkles` | 이마 주름 | 스핑크스 |
 
+### 2-1. 실루엣 파라미터 (품종을 색 없이 모양만으로 구분)
+
+까만 실루엣 점검(`silhouette.html`)에서 색을 빼면 20여 품종이 코리안 숏헤어와 구분되지 않았다.
+그래서 품종 표준(CFA·TICA)에서 모양으로 드러나는 특징을 파라미터로 추가했다.
+
+| 파라미터 | 의미 | 적용 품종 |
+|---|---|---|
+| `wedge` | 턱으로 갈수록 좁아지는 쐐기형 머리, 긴 주둥이 | 샴·오리엔탈 1, 코니시 렉스 .5, 아비시니안·데본 렉스 .4, 러시안 블루·터키시 앙고라 .35 |
+| `headTri` | 곧은 콧날의 삼각형 머리 | 노르웨이 숲, 재패니즈 밥테일 |
+| `muzzleW` | 넓고 각진 주둥이 | 메인쿤 1.35, 아메리칸 숏헤어 1.2 |
+| `earSet` | 귀 위치: `high` 머리 위 / `mid` / `low` 옆으로 넓게 | high: 아비시니안·메인쿤·사바나 / low: 샴·페르시안·브리티시·데본·스핑크스 |
+| `earWide` | 귀 밑동 너비 | 데본 렉스 1.2, 스핑크스 1.15 |
+| `earRound` | 둥근 귀 끝 (0 뾰족 ~ 1 둥글) | 브리티시 1, 페르시안·엑조틱 .8 |
+| `chest` | 가슴 깊이 | 브리티시·코니시 렉스 1.15 |
+| `backArch` | 둥글게 솟은 등 | 코니시 렉스 |
+| `tuck` | 위로 말려 올라간 배 (그레이하운드형) | 코니시 렉스 1, 샴·오리엔탈 .4 |
+| `potBelly` | 둥근 배 | 스핑크스 |
+| `pouch` | 뒷배 아래 늘어진 주머니(프라이모디얼 파우치) | 이집션 마우 1, 벵갈 .5 |
+| `rumpHigh` | 뒷다리가 길어 엉덩이가 높음 | 맹크스 .3, 이집션 마우 .2 |
+| `neckLen` | 목 길이 | 사바나 1.3, 샴 1.2 / 페르시안 .75 |
+| `tailThick` | 꼬리 굵기 | 브리티시 1.3 / 코니시 렉스 .55 (채찍 꼬리) |
+
+- 체형 그룹: **코비형**(페르시안·브리티시·엑조틱·맹크스: 짧은 몸, 짧은 다리, 낮은 귀, 굵은 꼬리)과 **포린형**(샴·오리엔탈·코니시: 긴 몸, 긴 다리, 쐐기 머리, 가는 꼬리)이 실루엣만으로 구분된다.
+- `rumpHigh`는 몸통을 앞으로 기울이고, 목이 그만큼 반대로 돌아가서 머리 높이는 유지된다.
+- 납작한 얼굴(`faceFlat`)은 얼굴 앞면만 살짝 눌러서 볼과 주둥이가 함께 따라 들어가게 했다. 혹처럼 튀어나오지 않는다.
+
 ## 3. 털 파라미터 (`makeCoat`)
 
 | 무늬 `pattern` | 국내 호칭 | 사용 색 |
@@ -137,6 +164,7 @@ python3 -m http.server 8765
 #   http://localhost:8765/walk.html?id=scottish_fold 걷기 동작 8프레임
 #   http://localhost:8765/face.html                   전 품종 정면 얼굴 점검
 #   http://localhost:8765/inspect.html?ids=a,b        다각도 점검 (정면·대각·측면·뒷면·위)
+#   http://localhost:8765/silhouette.html             실루엣 점검 (색 없이 측면·정면)
 #   http://localhost:8765/village.html               마을 그래픽 시안
 # 이미지로 저장 (Playwright 필요)
 python3 render.py out.png "catalog.html?mode=breeds"   # 기본 포트 8766
